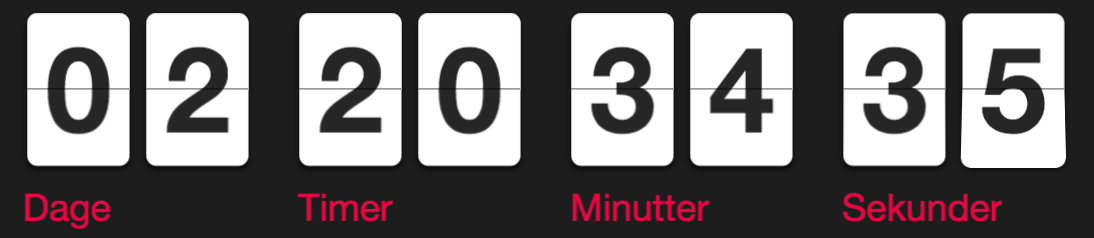
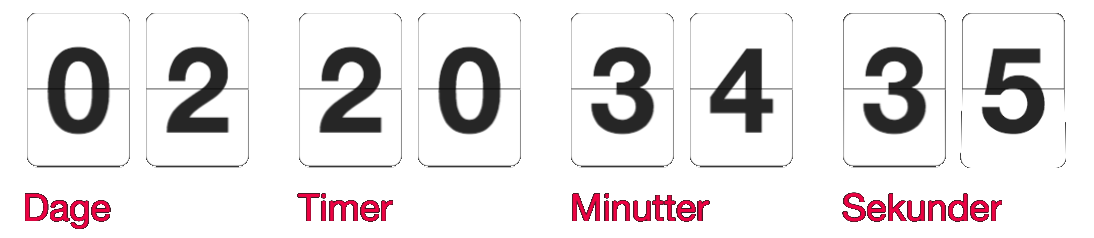
MKBDIGI-213: Fixed size of countdown

diff --git a/Resources/public/templates/aarhus/slides/aarhus-second-countdown/aarhus-second-countdown.css b/Resources/public/templates/aarhus/slides/aarhus-second-countdown/aarhus-second-countdown.css
@@ -1,1 +1,1 @@
-@import url(flipclock.css);@font-face{font-family:'Arial Black';src:url("../../fonts/arial_black-webfont.woff2") format("woff2"),url("../../fonts/arial_black-webfont.woff") format("woff"),url("../../fonts/arial_black-webfont.ttf") format("truetype")}.aarhus-second-countdown{font-size:16px}@keyframes box-reveal{0%{opacity:0}100%{opacity:1;transform:translateY(0px)}}@keyframes h1-underline{0%{opacity:0;width:100%}40%{opacity:1;width:100%;margin-top:0.938em;height:0.375em}70%{opacity:1;width:100%;margin-top:0.625em;height:0.2em}100%{opacity:1;width:5em;margin-top:0.625em}}@keyframes text-hide{0%{opacity:1}100%{opacity:0;display:none}}@keyframes text-reveal{0%{opacity:0}100%{opacity:1;transform:translateY(0px)}}.aarhus-second-countdown .tpl-container{width:100%;height:100%;background-color:#f5f5f5;position:relative}.aarhus-second-countdown .tpl-item-fade{position:absolute;top:0;left:0;width:100%;height:25%;background:linear-gradient(to bottom, rgba(51,51,51,0.55) 0%, rgba(51,51,51,0) 100%);z-index:1}.aarhus-second-countdown .tpl-progress{position:absolute;width:100%;height:0.188em;background-color:rgba(245,245,245,0.8);box-shadow:0 2px 8px rgba(0,0,0,0.26);z-index:100}.aarhus-second-countdown .tpl-progress-bar{display:block;width:0%;height:0.188em;background-color:#EE0043;animation-name:progress-bar;animation-duration:30s;animation-delay:0.2s;animation-iteration-count:1;animation-timing-function:linear;animation-fill-mode:forwards}.aarhus-second-countdown .tpl-time{position:absolute;top:2%;left:2%;z-index:100}.aarhus-second-countdown .tpl-time p{font-family:"Arial Black",Arial,Helvetica,sans-serif;font-size:1.125em;color:#fff;text-shadow:0 2px 8px rgba(0,0,0,0.26);margin:0;padding:0}.aarhus-second-countdown .tpl-time-dark p{color:#333;text-shadow:none}.aarhus-second-countdown .tpl-footer{height:auto;width:100%;position:absolute;bottom:0;background:#f5f5f5;z-index:2}.aarhus-second-countdown .tpl-footer-small{height:12%}.aarhus-second-countdown .tpl-footer-medium{height:25%}.aarhus-second-countdown .tpl-logo{position:absolute;bottom:3.5%;left:2.5%;height:5%;z-index:3}.aarhus-second-countdown .tpl-h1{position:relative;font-family:"Arial Black",Arial,Helvetica,sans-serif;font-size:1.875em;line-height:1.125em;color:#333;margin:0 0 1em 0;text-transform:uppercase;display:inline-block;padding-bottom:0.625em}.aarhus-second-countdown .tpl-h1:after{opacity:0;content:"";display:block;position:absolute;height:0.20em;background-color:#EE0043;width:100%;margin-top:-0.625em;transition:width .3s ease-out;animation-name:h1-underline;animation-delay:.5s;animation-duration:.7s;animation-iteration-count:1;animation-timing-function:ease-out;animation-fill-mode:forwards}.aarhus-second-countdown .tpl-h2{position:relative;font-family:"Arial Black",Arial,Helvetica,sans-serif;font-size:1.25em;color:#333;margin:0 0 1em 0;text-transform:uppercase;display:inline-block}.aarhus-second-countdown .tpl-h2:after{opacity:1;content:"";display:block;position:absolute;height:0.20em;background-color:#EE0043;width:3.75em;margin-top:0.313em}.aarhus-second-countdown .tpl-h3{position:relative;font-family:"Arial Black",Arial,Helvetica,sans-serif;font-size:1.25em;color:#333;margin:0 0 1em 0;text-transform:uppercase;display:inline-block}.aarhus-second-countdown .tpl-container{background-color:#262626}.aarhus-second-countdown .tpl-image{position:absolute;top:-5%;left:-5%;height:85%;width:110%;background-size:cover;background-position-y:bottom;opacity:0;animation-name:box-reveal;animation-duration:0.7s;animation-iteration-count:1;animation-timing-function:ease-out;animation-fill-mode:forwards;z-index:2;filter:blur(0px)}.aarhus-second-countdown .tpl-title{position:absolute;top:10%;left:2%;z-index:3}.aarhus-second-countdown .tpl-title-h1{color:#fff;font-size:2.188em;text-shadow:0 2px 8px rgba(0,0,0,0.26)}.aarhus-second-countdown .tpl-countdown{position:absolute;top:30%;left:2%;height:30%;background:#1D1D1D;padding:2% 12%;z-index:2}.aarhus-second-countdown .tpl-countdown-clock{text-align:center}.aarhus-second-countdown .tpl-countdown-clock.flip-clock-wrapper ul li a div.inn{background-color:#fff;text-shadow:none;color:#262626}.aarhus-second-countdown .tpl-countdown-clock.flip-clock-wrapper .flip-clock-divider{color:#EE0043}.aarhus-second-countdown .tpl-countdown-clock.flip-clock-wrapper .flip-clock-divider.hours .flip-clock-label,.aarhus-second-countdown .tpl-countdown-clock.flip-clock-wrapper .flip-clock-divider.minutes .flip-clock-label,.aarhus-second-countdown .tpl-countdown-clock.flip-clock-wrapper .flip-clock-divider.seconds .flip-clock-label{left:1.1em}.aarhus-second-countdown .tpl-countdown-clock.flip-clock-wrapper .flip-clock-divider .flip-clock-label{top:auto;bottom:-1.5em;right:auto;left:.1em;color:#EE0043;text-align:left;font-size:2em}.aarhus-second-countdown .tpl-countdown-clock.flip-clock-wrapper .flip-clock-divider .flip-clock-dot{visibility:hidden}.aarhus-second-countdown .tpl-facttext{margin:2.5em 1.875em;text-align:center;color:#333}
+@import url(flipclock.css);@font-face{font-family:'Arial Black';src:url("../../fonts/arial_black-webfont.woff2") format("woff2"),url("../../fonts/arial_black-webfont.woff") format("woff"),url("../../fonts/arial_black-webfont.ttf") format("truetype")}.aarhus-second-countdown{font-size:16px}@keyframes box-reveal{0%{opacity:0}100%{opacity:1;transform:translateY(0px)}}@keyframes h1-underline{0%{opacity:0;width:100%}40%{opacity:1;width:100%;margin-top:0.938em;height:0.375em}70%{opacity:1;width:100%;margin-top:0.625em;height:0.2em}100%{opacity:1;width:5em;margin-top:0.625em}}@keyframes text-hide{0%{opacity:1}100%{opacity:0;display:none}}@keyframes text-reveal{0%{opacity:0}100%{opacity:1;transform:translateY(0px)}}.aarhus-second-countdown .tpl-container{width:100%;height:100%;background-color:#f5f5f5;position:relative}.aarhus-second-countdown .tpl-item-fade{position:absolute;top:0;left:0;width:100%;height:25%;background:linear-gradient(to bottom, rgba(51,51,51,0.55) 0%, rgba(51,51,51,0) 100%);z-index:1}.aarhus-second-countdown .tpl-progress{position:absolute;width:100%;height:0.188em;background-color:rgba(245,245,245,0.8);box-shadow:0 2px 8px rgba(0,0,0,0.26);z-index:100}.aarhus-second-countdown .tpl-progress-bar{display:block;width:0%;height:0.188em;background-color:#EE0043;animation-name:progress-bar;animation-duration:30s;animation-delay:0.2s;animation-iteration-count:1;animation-timing-function:linear;animation-fill-mode:forwards}.aarhus-second-countdown .tpl-time{position:absolute;top:2%;left:2%;z-index:100}.aarhus-second-countdown .tpl-time p{font-family:"Arial Black",Arial,Helvetica,sans-serif;font-size:1.125em;color:#fff;text-shadow:0 2px 8px rgba(0,0,0,0.26);margin:0;padding:0}.aarhus-second-countdown .tpl-time-dark p{color:#333;text-shadow:none}.aarhus-second-countdown .tpl-footer{height:auto;width:100%;position:absolute;bottom:0;background:#f5f5f5;z-index:2}.aarhus-second-countdown .tpl-footer-small{height:12%}.aarhus-second-countdown .tpl-footer-medium{height:25%}.aarhus-second-countdown .tpl-logo{position:absolute;bottom:3.5%;left:2.5%;height:5%;z-index:3}.aarhus-second-countdown .tpl-h1{position:relative;font-family:"Arial Black",Arial,Helvetica,sans-serif;font-size:1.875em;line-height:1.125em;color:#333;margin:0 0 1em 0;text-transform:uppercase;display:inline-block;padding-bottom:0.625em}.aarhus-second-countdown .tpl-h1:after{opacity:0;content:"";display:block;position:absolute;height:0.20em;background-color:#EE0043;width:100%;margin-top:-0.625em;transition:width .3s ease-out;animation-name:h1-underline;animation-delay:.5s;animation-duration:.7s;animation-iteration-count:1;animation-timing-function:ease-out;animation-fill-mode:forwards}.aarhus-second-countdown .tpl-h2{position:relative;font-family:"Arial Black",Arial,Helvetica,sans-serif;font-size:1.25em;color:#333;margin:0 0 1em 0;text-transform:uppercase;display:inline-block}.aarhus-second-countdown .tpl-h2:after{opacity:1;content:"";display:block;position:absolute;height:0.20em;background-color:#EE0043;width:3.75em;margin-top:0.313em}.aarhus-second-countdown .tpl-h3{position:relative;font-family:"Arial Black",Arial,Helvetica,sans-serif;font-size:1.25em;color:#333;margin:0 0 1em 0;text-transform:uppercase;display:inline-block}.aarhus-second-countdown .tpl-container{background-color:#262626}@media only screen and (min-width: 1920px){.aarhus-second-countdown .tpl-container.live{font-size:2em}}.aarhus-second-countdown .tpl-image{position:absolute;top:-5%;left:-5%;height:85%;width:110%;background-size:cover;background-position-y:bottom;opacity:0;animation-name:box-reveal;animation-duration:0.7s;animation-iteration-count:1;animation-timing-function:ease-out;animation-fill-mode:forwards;z-index:2;filter:blur(0px)}.aarhus-second-countdown .tpl-title{position:absolute;top:10%;left:2%;z-index:3}.aarhus-second-countdown .tpl-title-h1{color:#fff;font-size:2.188em;text-shadow:0 2px 8px rgba(0,0,0,0.26)}.aarhus-second-countdown .tpl-countdown{position:absolute;top:30%;z-index:2}.aarhus-second-countdown .tpl-countdown-clock{text-align:center}.aarhus-second-countdown .tpl-countdown-clock.flip-clock-wrapper ul li a div.inn{background-color:#fff;text-shadow:none;color:#262626}.aarhus-second-countdown .tpl-countdown-clock.flip-clock-wrapper .flip-clock-divider{color:#EE0043}.aarhus-second-countdown .tpl-countdown-clock.flip-clock-wrapper .flip-clock-divider.hours .flip-clock-label,.aarhus-second-countdown .tpl-countdown-clock.flip-clock-wrapper .flip-clock-divider.minutes .flip-clock-label,.aarhus-second-countdown .tpl-countdown-clock.flip-clock-wrapper .flip-clock-divider.seconds .flip-clock-label{left:1.1em}.aarhus-second-countdown .tpl-countdown-clock.flip-clock-wrapper .flip-clock-divider .flip-clock-label{top:auto;bottom:-1.5em;right:auto;left:.1em;color:#EE0043;text-align:left;font-size:2em}.aarhus-second-countdown .tpl-countdown-clock.flip-clock-wrapper .flip-clock-divider .flip-clock-dot{visibility:hidden}.aarhus-second-countdown .tpl-facttext{margin:2.5em 1.875em;text-align:center;color:#333}

diff --git a/Resources/public/templates/aarhus/slides/aarhus-second-countdown/itk-aarhus-second-countdown.js b/Resources/public/templates/aarhus/slides/aarhus-second-countdown/itk-aarhus-second-countdown.js
@@ -9,6 +9,8 @@ if (!window.slideFunctions['itk-aarhus-second-countdown']) {
     setup: function setupCalendarSlide(scope) {
       var slide = scope.ikSlide;
 
+      slide.zoom = 1.0;
+
       if ($.fn.FlipClock === undefined) {
         $.getScript(slide.path + "/flipclock.min.js", function( data, textStatus, jqxhr ) {});
       }
@@ -39,10 +41,19 @@ if (!window.slideFunctions['itk-aarhus-second-countdown']) {
 
       slide.countdown = $('.slide-' + slide.uniqueId + ' .tpl-countdown-clock');
 
-      if (slide.clockInstantiated) {
+      if (Math.ceil((new Date()).getTime() / 1000) >= slide.options.countdown) {
+        slide.countdownFinished = true;
+      }
+
+      if (slide.clockInstantiated && !slide.countdownFinished) {
         var currentDate = new Date();
         var futureDate  = new Date(slide.options.countdown * 1000);
         var diff = parseInt(futureDate.getTime() - currentDate.getTime()) / 1000;
+
+        if (diff < 0) {
+          diff = 0;
+          slide.countdownFinished = true;
+        }
 
         slide.clock.setTime(diff);
         slide.clock.start();
@@ -55,10 +66,14 @@ if (!window.slideFunctions['itk-aarhus-second-countdown']) {
           return;
         }
         else {
-          if (!slide.clockInstantiated) {
+          if (!slide.clockInstantiated && !slide.countdownFinished) {
             var currentDate = new Date();
             var futureDate  = new Date(slide.options.countdown * 1000);
             var diff = parseInt(futureDate.getTime() - currentDate.getTime()) / 1000;
+
+            if (diff < 0) {
+              diff = 0;
+            }
 
             // Instantiate a countdown FlipClock
             slide.clock = slide.countdown.FlipClock(diff, {
@@ -75,6 +90,12 @@ if (!window.slideFunctions['itk-aarhus-second-countdown']) {
                 }
               }
             });
+
+            var page = $('.slide-' + slide.uniqueId);
+            var el = $('.slide-' + slide.uniqueId + ' .tpl-countdown');
+
+            // Calculate zoom factor.
+            slide.zoom = (page.width()) / el.width();
 
             slide.clockInstantiated = true;
           }

diff --git a/Resources/public/templates/aarhus/slides/aarhus-second-countdown/aarhus-second-countdown.html b/Resources/public/templates/aarhus/slides/aarhus-second-countdown/aarhus-second-countdown.html
@@ -1,18 +1,15 @@
 <div class="aarhus-second-countdown"
      data-ng-style="{'font-size': theStyle.fontsize}">
-  <div class="tpl-container">
-    <div class="tpl-item tpl-image" data-ng-if="!ikSlide.countdownFinished"
-         data-ng-style="{'background-image': 'url(' + ikSlide.currentImage + ')', 'background-color': ikSlide.options.bgcolor}">
-    </div>
-    <div class="tpl-item tpl-image" data-ng-if="ikSlide.countdownFinished"
+  <div class="tpl-container live" data-ng-style="{'background-color': ikSlide.options.bgcolor}">
+    <div class="tpl-item tpl-image" data-ng-show="ikSlide.countdownFinished"
          data-ng-style="{'background-image': 'url(\'' + ikSlide.path + 'img/countdown_done.jpeg' + '\')'}">
     </div>
     <div class="tpl-item tpl-fade"></div>
     <div class="tpl-item tpl-title">
       <h1 class="tpl-h1 tpl-title-h1">{{ikSlide.options.headline}}</h1>
     </div>
-    <div class="tpl-countdown">
-      <div class="tpl-countdown-clock"></div>
+    <div class="tpl-countdown" data-ng-hide="ikSlide.countdownFinished">
+      <div class="tpl-countdown-clock" data-ng-style="{'zoom': ikSlide.zoom, '-moz-transform': 'scale(' + ikSlide.zoom + ')'}"></div>
     </div>
     <div class="tpl-item tpl-footer tpl-footer-medium">
       <p class="tpl-facttext"><strong>{{ikSlide.options.text}}</strong></p>

diff --git a/Resources/public/templates/aarhus/screens/aarhus-second-watch-progress/aarhus-second-watch-progress.css b/Resources/public/templates/aarhus/screens/aarhus-second-watch-progress/aarhus-second-watch-progress.css
@@ -1,1 +1,1 @@
-.aarhus-second-watch-progress .watch{position:absolute;top:2%;left:2%;z-index:5;font-family:"Arial Black",Arial,Helvetica,sans-serif;font-size:1.125em;color:#fff;text-shadow:0 2px 8px rgba(0,0,0,0.26);margin:0;padding:0}.aarhus-second-watch-progress .progress{display:block;height:0.188em;background-color:rgba(245,245,245,0.8);box-shadow:0 2px 8px rgba(0,0,0,0.26);z-index:999;position:relative}.aarhus-second-watch-progress .progress .progress-box{display:none}.aarhus-second-watch-progress .progress .progress-bar{height:0.188em;background-color:#EE0043}
+@media only screen and (min-width: 1920px){.aarhus-second-watch-progress{font-size:2em}}.aarhus-second-watch-progress .watch{position:absolute;top:2%;left:2%;z-index:5;font-family:"Arial Black",Arial,Helvetica,sans-serif;font-size:1.125em;color:#fff;text-shadow:0 2px 8px rgba(0,0,0,0.26);margin:0;padding:0}.aarhus-second-watch-progress .progress{display:block;height:0.188em;background-color:rgba(245,245,245,0.8);box-shadow:0 2px 8px rgba(0,0,0,0.26);z-index:999;position:relative}.aarhus-second-watch-progress .progress .progress-box{display:none}.aarhus-second-watch-progress .progress .progress-bar{height:0.188em;background-color:#EE0043}

diff --git a/Resources/public/templates/aarhus/slides/aarhus-second-countdown/aarhus-second-countdown-edit.html b/Resources/public/templates/aarhus/slides/aarhus-second-countdown/aarhus-second-countdown-edit.html
@@ -2,13 +2,13 @@
      data-ng-style="{'width': theStyle.width, 'height': theStyle.height, 'font-size': theStyle.fontsize}">
   <div class="tpl-container">
     <div class="tpl-item tpl-image"
-         data-ng-style="{'background-image': 'url(' + ikSlide.currentImage + ')', 'background-color': ikSlide.options.bgcolor}">
+         data-ng-style="{'background-color': ikSlide.options.bgcolor}">
     </div>
     <div class="tpl-item tpl-fade"></div>
     <div class="tpl-item tpl-title">
       <h1 class="tpl-h1 tpl-title-h1">{{ikSlide.options.headline}}</h1>
     </div>
-    <div class="tpl-countdown" style="width: 96%">
+    <div class="tpl-countdown" style="width: 100%">
       <img data-ng-src="bundles/itkaarhussecondtemplate/templates/aarhus/slides/aarhus-second-countdown/img/countdown.png">
     </div>
     <div class="tpl-item tpl-footer tpl-footer-medium">

diff --git a/Resources/public/templates/aarhus/slides/aarhus-second-countdown/aarhus-second-countdown.scss b/Resources/public/templates/aarhus/slides/aarhus-second-countdown/aarhus-second-countdown.scss
@@ -9,6 +9,11 @@
   .tpl {
     &-container {
       background-color: #262626;
+      &.live {
+        @media only screen and (min-width: 1920px) {
+          font-size: 2em;
+        }
+      }
     }
     &-image {
       position: absolute;
@@ -41,10 +46,6 @@
     &-countdown {
       position: absolute;
       top: 30%;
-      left: 2%;
-      height: 30%;
-      background: #1D1D1D;
-      padding: 2% 12%;
       z-index: 2;
 
       &-clock {

diff --git a/Resources/public/templates/aarhus/screens/aarhus-second-watch-progress/aarhus-second-watch-progress.scss b/Resources/public/templates/aarhus/screens/aarhus-second-watch-progress/aarhus-second-watch-progress.scss
@@ -1,6 +1,10 @@
 @import '../../../../../../design/scss/_variables.scss';
 
 .aarhus-second-watch-progress {
+  @media only screen and (min-width: 1920px) {
+    font-size: 2em;
+  }
+
   .watch {
     position: absolute;
     top: 2%;
